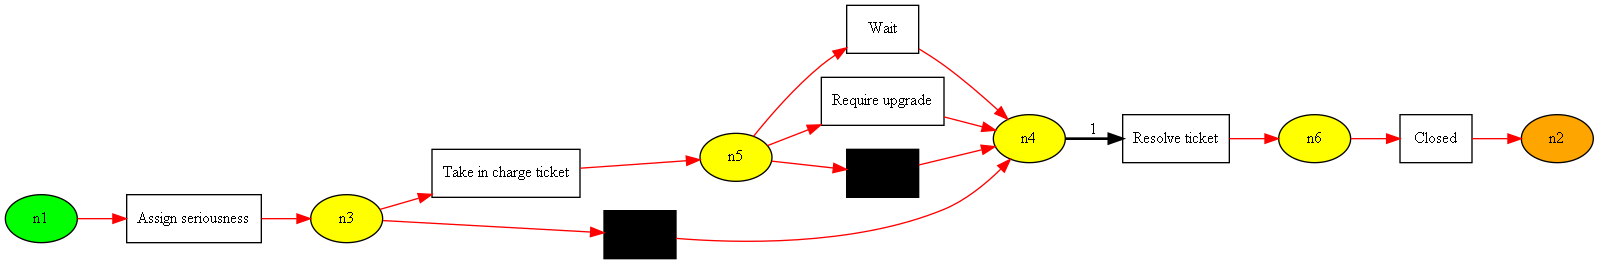
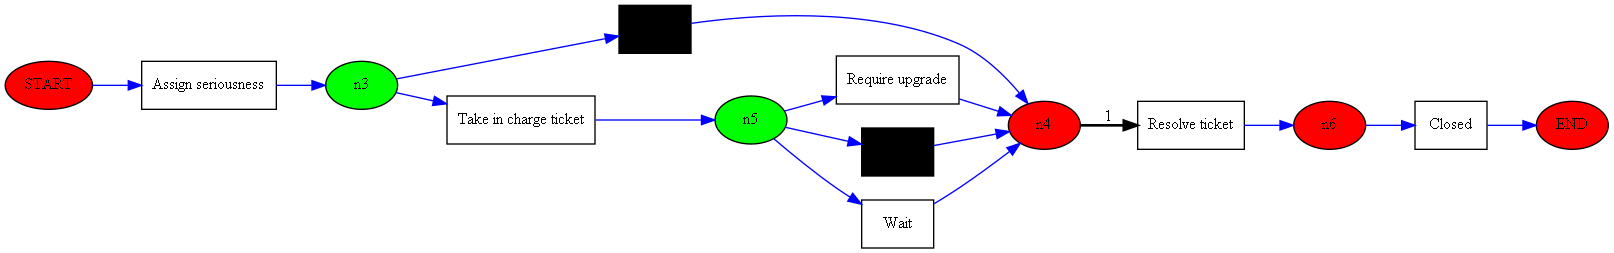
START/END rewrite, user now bases off diagram

diff --git a/application/templates/petri_net.html b/application/templates/petri_net.html
@@ -10,7 +10,6 @@
         var places_var = '{{ places }}'
         //modified
         var invalid_places_var = '{{ invalid_places }}'
-        // alert(final_marking_name);
         var generate_button = false;
         function changeImage(img_name)
         {   
@@ -19,25 +18,6 @@
             var img = document.getElementById("image");
             img.src="../static/image/" + process_img + ".png";
         }
-
-        /*
-        function changeOriImage()
-        {
-            const tmp = places_var.replace("{","").replace("}","");
-            const places_list = tmp.split(",");
-            var img = document.getElementById("image");
-            img.src="../static/image/petri_net.png";
-            
-            // alert(places_list);
-            for(var i=0; i < places_list.length; i++){
-                var com_elem = 'btn' + places_list[i];
-                // alert(com_elem);
-                var elem = document.getElementById(com_elem);
-                elem.parentNode.removeChild(elem);
-            }
-            generate_button = false;
-        }
-         */
 
         function testInvalid(single_place, invalid_places_var){
             for(var i = 0; i < invalid_places_var.length; i++ ){
@@ -52,31 +32,17 @@
             if (generate_button == false){
                 const tmp_invalid = invalid_places_var.replace("[","").replace("]","");
                 let invalid_places_list = tmp_invalid.split(", ")
-                    /*.sort(function(a, b){
-                    if(a.length < b.length) {
-                        return -1;
-                    }
-                    if(a < b) {
-                        return -1;
-                    }
-                    if(a === b) {
-                        return 0;
-                    }
-                    else return 1;
-                });
-                */
-                // console.log(places_var);
+
                 const tmp = places_var.replace("{","").replace("}","");
                 let places_list = tmp.split(", ").sort(function(a, b){
-                    if(a.length < b.length) {
-                        return -1;
-                    }
-                    if(a < b) {
-                        return -1;
-                    }
-                    if(a == b) {
-                        return 0;
-                    }
+                    if(a == "START") return -1;
+                    if(b == "START") return 1;
+                    if(a == "END") return 1;
+                    if(b == "END") return -1;
+
+                    if(a.length < b.length) return -1;
+                    if(a < b) return -1;
+                    if(a == b) return 0;
                     else return 1;
                 });
                 // console.log(places_list);
@@ -94,9 +60,18 @@
                         let buttonDiv = document.getElementById("buttons");
                         buttonDiv.appendChild(btn);
                         generate_button = true;
+                        btn.style.backgroundColor = '#018dfc';
+                            btn.style.color = '#FFFFFF'
+                            btn.addEventListener("click", function() {
+                                changeImage(image_name);
+                                // alert("This is an invalid place as it does not have multiple exclusive choices.")
+                            });
+                        /*
                         if (testInvalid(String(places_list[i]).trim(),invalid_places_list)){
-                            btn.style.backgroundColor = '';
-                            btn.style.color = '#FF0000'
+                            // btn.style.backgroundColor = '';
+                            // btn.style.color = '#FF0000'
+                            btn.style.backgroundColor = '#018dfc';
+                            btn.style.color = '#FFFFFF'
                             btn.addEventListener("click", function() {
                                 changeImage(image_name);
                                 // alert("This is an invalid place as it does not have multiple exclusive choices.")
@@ -112,6 +87,7 @@
                                     }
                                 );
                         }
+                        */
                     })();
                 }
             }
@@ -144,8 +120,8 @@
 
             <!-- <h3>Here is Preview</h3> -->
             <!-- <button id="clickme" onclick="changeImage();">Click to change image!</button> -->
-            <p>Click the "Preview" button!<br>After that, click a button below to see the exclusive choices for the named place.
-                <br> Note that we can only measure places with multiple exclusive choices which are shown by a <b>blue button.</b>
+            <p>Click the "Preview" button!
+                <br>After that, click a button below to see the exclusive choices for the named place.
             </p>
             <button id="preview" onclick="myFunc('{{ places }}', '{{invalid_places}}');">Preview </button>
             <!-- <button id="origin_clickme" onclick="changeOriImage();">The original Image</button> -->
@@ -154,12 +130,12 @@
 
             <!-- <div id = "sliders">
             </div> -->
-            <p>Type below a place name you're interested in!
-                <br> (it must be a place that has a <b>blue button</b> above)</p>
+            <p>Type below a place name you're interested in
+                <br> (it must be a place <b>in the diagram</b> that is <b>green</b>)!</p>
                 <!-- loading might need to added here -->
                 <form action = "http://localhost:5000/select_places" method="POST">
                 <!-- <form action = "https://process-mining-zkathz2wkq-ts.a.run.app/select_places" method="POST"> -->
-                    <input type="text" id="select_places" name="select_places" size="4" maxlength="4">
+                    <input type="text" id="select_places" name="select_places" size="5" maxlength="5">
                     <br><br>
                     <!-- <input type="range" name="rangeInput" min="0" max="100" onchange="updateTextInput(this.value);"> -->
                     Model: <select name="modelSelect" id="modelSelect">

diff --git a/application/views.py b/application/views.py
@@ -10,6 +10,8 @@ global select_pen
 global select_model
 # global valid_places
 global invalid_places
+global start
+global end
 # valid_places = []
 invalid_places = []
 return_results = []
@@ -39,6 +41,7 @@ def index():
             # global valid_places
             global invalid_places
             invalid_places = model.draw_save_petri_net_previews(net, initial_marking, final_marking, places, arcs)
+            print("----------", invalid_places[0])
             # print("hi", valid_places,invalid_places)
             places_in_url = model.redo_places(places)
             return redirect(url_for('select_places'))
@@ -54,11 +57,41 @@ def select_places():
     log = model.get_log(log_path)
     net, initial_marking, final_marking = model.get_petri_net(net_path)
     p, transitions, arcs = model.get_attributes_of_petri_net(net)
-    final_marking_name = model.get_marking_name(final_marking)
+
+    global start
+    start = model.get_marking_name(initial_marking)
+    global end
+    end = model.get_marking_name(final_marking)
+
+    pf = f"{p}"
+    start_brace = "{"
+    end_brace = "}"
+    ps = pf.replace(f"{start_brace}{start}", "{START") \
+        .replace(f"{start_brace}{end}", "{END") \
+        .replace(f"{start}{end_brace}", "START}") \
+        .replace(f"{end}{end_brace}", "END}") \
+        .replace(f"{start},", "START,") \
+        .replace(f"{end},", "END,")
+
+    invalid_placesf = f"{invalid_places}"
+    invalid_placess = invalid_placesf.replace(f"[{start}", "[START") \
+        .replace(f"[{end}", "[END") \
+        .replace(f"{start}]", "START]") \
+        .replace(f"{end}]", "END]") \
+        .replace(f"{start},", "START,") \
+        .replace(f"{end},", "END,")
 
     if request.method == 'POST':
         str_select_places = request.form['select_places'] 
         select_places = str_select_places.split(",")
+        print("SELECT PLACES IS ---....----", select_places)
+
+        for i in range(len(select_places)):
+            if select_places[i] == "START":
+                select_places[i] = start
+            elif select_places[i] == "END":
+                select_places[i] = end
+
         global select_pen
         global select_model
         select_pen = int(request.form['PenInputName'])
@@ -66,11 +99,11 @@ def select_places():
         # print(select_pen, type(select_pen))
         # print(select_model, type(select_model))
         global invalid
-        valid, invalid = model.valid_places(p,select_places)
+        valid, invalid = model.valid_places(p, select_places)
         if len(invalid) > 0 and len(valid) == 0:
-            return render_template('petri_net.html', places = p, invalid_places = invalid_places, message = "The place you enetered is invalid. Please Try Again.")
+            return render_template('petri_net.html', places = ps, invalid_places = invalid_placess, message = "The place you enetered is invalid. Please Try Again.")
         if len(valid) > 1:
-            return render_template('petri_net.html', places = p, invalid_places = invalid_places, message = "You entered more than one place, please enter only one.")
+            return render_template('petri_net.html', places = ps, invalid_places = invalid_placess, message = "You entered more than one place, please enter only one.")
         if len(valid) == 1:
             global return_results
             results, sequences, choice_sequences = model.select_places_calculation(log, net, initial_marking, final_marking, p, valid, select_pen,select_model)
@@ -83,7 +116,12 @@ def select_places():
     elif request.method == 'GET':
         # return render_template('petri_net.html', places=p, final_marking_name= final_marking_name, message = "Please Select Places")
         print("second", p, invalid_places)
-        return render_template('petri_net.html', places = p, invalid_places = invalid_places, message = "")
+        print("p is", p)
+        print("invalid_places is", invalid_places)
+
+        print("new p is", ps)
+        print("new invalid_places is", invalid_placess)
+        return render_template('petri_net.html', places = ps, invalid_places = invalid_placess, message = "")
 
 @app.route('/results', methods = ['GET'])
 def show_results():
@@ -92,6 +130,8 @@ def show_results():
     else:
         places = list(return_results.keys())
         place = places[0]
+        print("THE FINAL PLACE TO SHOW IS", place)
+        print(type(place))
         message = return_results[place]
         collection = []
 
@@ -109,6 +149,13 @@ def show_results():
                 identities.append(f"Transition {i+1}")
         else:
             identities = ''
+
+        global start
+        global end
+        if place == start:
+            place = "START"
+        if place == end:
+            place = "END"
 
         return render_template("results.html",
                                place=place,

diff --git a/application/detector.py b/application/detector.py
@@ -44,17 +44,26 @@ Draw the Petri Net
 def draw_petri_net(net, initial_marking, final_marking, places, arcs):
     deco = {}
     for i in arcs:
-            deco[i] = {"color":"red"}
+        deco[i] = {"color":"blue"}
+
     initial_place_name = get_marking_name(initial_marking)
     final_place_name = get_marking_name(final_marking)
 
-    for place in places:
-        if place.name == initial_place_name:
-            deco[place] = {"label": place.name, "color": "green"}
-        elif place.name == final_place_name:
-            deco[place] = {"label": place.name, "color": "orange"}
+    for place in net.places:
+        if len(place.out_arcs) <= 1:
+            if place.name == initial_place_name:
+                deco[place] = {"label": "START", "color": "red"}
+            elif place.name == final_place_name:
+                deco[place] = {"label": "END", "color": "red"}
+            else:
+                deco[place] = {"label": place.name, "color":"red"}
         else:
-            deco[place] = {"label":place.name,"color":"yellow"}
+            if place.name == initial_place_name:
+                deco[place] = {"label": "START", "color": "green"}
+            elif place.name == final_place_name:
+                deco[place] = {"label": "END", "color": "green"}
+            else:
+                deco[place] = {"label": place.name, "color": "green"}
 
     # pnml_exporter.apply(net, initial_marking, "test_files/createdPetriNet1.pnml", final_marking=final_marking)
     gviz = graphviz_visualization(net, image_format='png', initial_marking=None,
@@ -62,28 +71,37 @@ def draw_petri_net(net, initial_marking, final_marking, places, arcs):
     return gviz
 
 def draw_petri_net_preview(net, initial_marking, final_marking, places, arcs, preview_place):
-    all_deco = {}
+    deco = {}
 
     count = 1
     for i in arcs:
         if i.source.name == preview_place:
-            all_deco[i] = {"label": str(count), "penwidth":'2'}
+            deco[i] = {"label": str(count), "penwidth":'2'}
             count += 1
         else:
-            all_deco[i] = {"color":"red"}
+            deco[i] = {"color":"blue"}
+
     initial_place_name = get_marking_name(initial_marking)
     final_place_name = get_marking_name(final_marking)
 
-    for place in places:
-        if place.name == initial_place_name:
-            all_deco[place] = {"label": place.name, "color": "green"}
-        elif place.name == final_place_name:
-            all_deco[place] = {"label": place.name, "color": "orange"}
+    for place in net.places:
+        if len(place.out_arcs) <= 1:
+            if place.name == initial_place_name:
+                deco[place] = {"label": "START", "color": "red"}
+            elif place.name == final_place_name:
+                deco[place] = {"label": "END", "color": "red"}
+            else:
+                deco[place] = {"label": place.name, "color": "red"}
         else:
-            all_deco[place] = {"label":place.name,"color":"yellow"}
+            if place.name == initial_place_name:
+                deco[place] = {"label": "START", "color": "green"}
+            elif place.name == final_place_name:
+                deco[place] = {"label": "END", "color": "green"}
+            else:
+                deco[place] = {"label": place.name, "color": "green"}
 
     gviz = graphviz_visualization(net, image_format='png', initial_marking=None,
-    final_marking=None, decorations=all_deco, debug=False, set_rankdir=None)
+    final_marking=None, decorations=deco, debug=False, set_rankdir=None)
     return gviz, count
 
 def save_petri_net(gviz):
